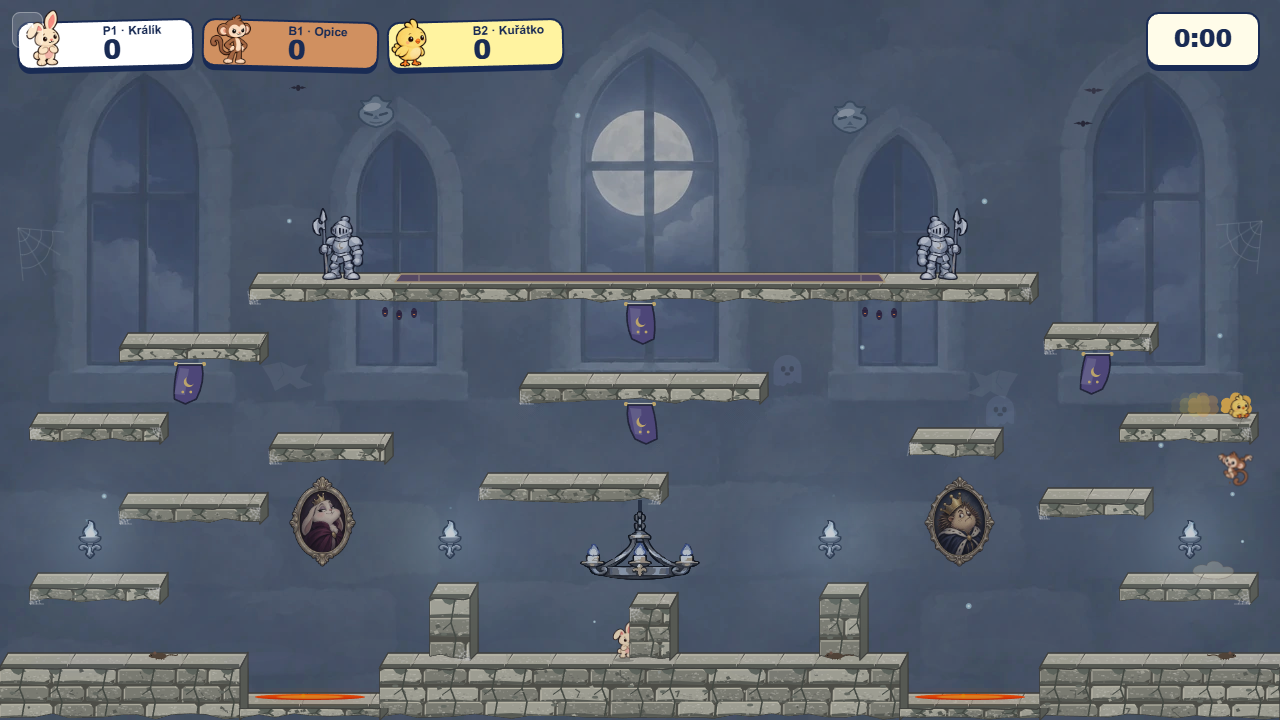
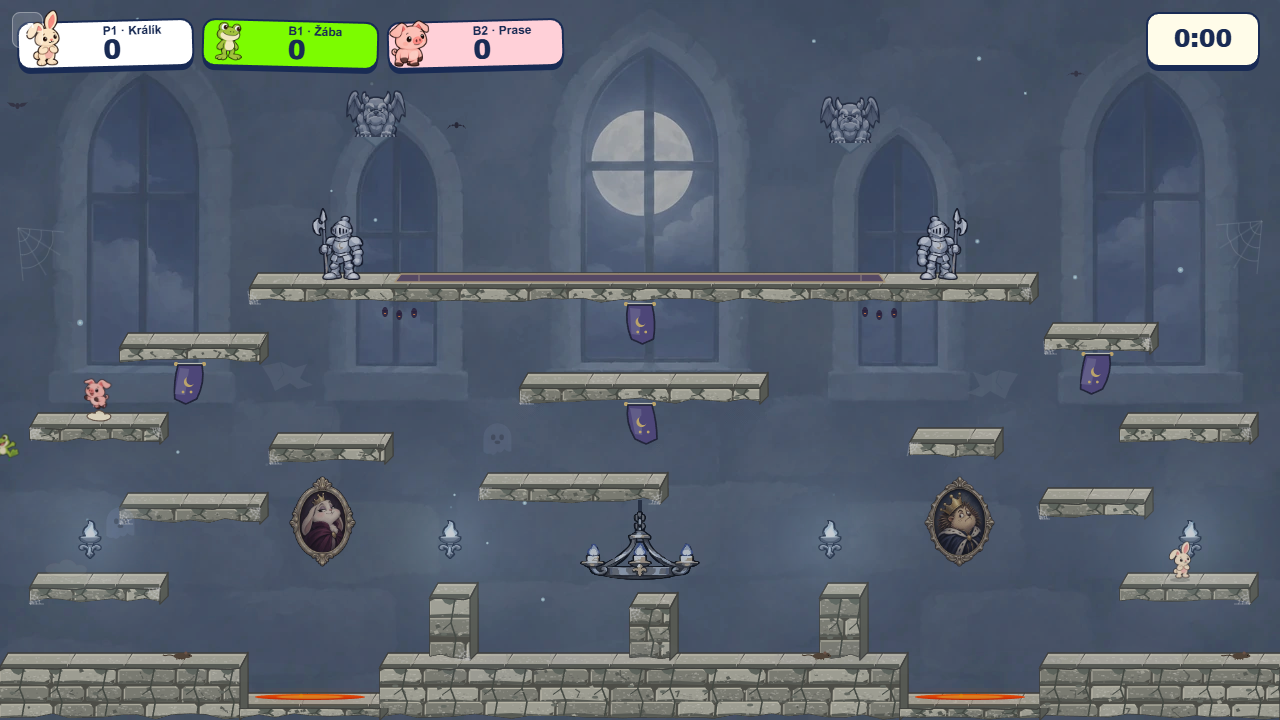
Make Castle keystones read as gargoyles

diff --git a/src/engine/arenas/packs/castleRoyalGallery.ts b/src/engine/arenas/packs/castleRoyalGallery.ts
@@ -1,53 +1,27 @@
 import type { Ctx2D, Platform } from '../../types';
 
-function drawKeystoneFace(c: Ctx2D, x: number, y: number, sleepy: boolean): void {
+function drawGargoyleKeystone(c: Ctx2D, x: number, y: number, gargoyle: ImageBitmap, mirror: boolean): void {
   c.save();
   c.translate(x, y);
-  c.globalAlpha = .68;
+  if (mirror) c.scale(-1, 1);
   c.lineJoin = 'round';
-  c.lineCap = 'round';
-  c.fillStyle = '#77899a';
-  c.strokeStyle = '#34475a';
+  // The pointed stone wedge joins the arch. The spring's existing winged
+  // gargoyle art is cropped above its plinth and reads as a carved figure.
+  c.globalAlpha = .58;
+  c.fillStyle = '#74889a';
+  c.strokeStyle = '#465c70';
   c.lineWidth = 2;
   c.beginPath();
-  c.moveTo(-17, 3);
-  c.quadraticCurveTo(-19, -6, -11, -7);
-  c.lineTo(-15, -13);
-  c.quadraticCurveTo(-6, -11, -4, -17);
-  c.quadraticCurveTo(0, -20, 4, -17);
-  c.quadraticCurveTo(6, -11, 15, -13);
-  c.lineTo(11, -7);
-  c.quadraticCurveTo(19, -6, 17, 3);
-  c.quadraticCurveTo(12, 11, 0, 13);
-  c.quadraticCurveTo(-12, 11, -17, 3);
+  c.moveTo(-23, 10);
+  c.quadraticCurveTo(0, 4, 23, 10);
+  c.lineTo(13, 23);
+  c.lineTo(0, 33);
+  c.lineTo(-13, 23);
   c.closePath();
   c.fill();
   c.stroke();
-  c.fillStyle = '#a7b1ba';
-  c.beginPath();
-  c.ellipse(-4, -7, 9, 4, -.2, 0, Math.PI * 2);
-  c.fill();
-  c.strokeStyle = '#293b4c';
-  c.lineWidth = 2.4;
-  c.beginPath();
-  c.moveTo(-11, -1);
-  c.lineTo(-4, sleepy ? 1 : -3);
-  c.moveTo(4, sleepy ? 1 : -3);
-  c.lineTo(11, -1);
-  c.stroke();
-  c.fillStyle = '#42566a';
-  c.beginPath();
-  c.moveTo(0, 1);
-  c.lineTo(-3, 5);
-  c.lineTo(3, 5);
-  c.closePath();
-  c.fill();
-  c.strokeStyle = '#435365';
-  c.lineWidth = 1.4;
-  c.beginPath();
-  c.moveTo(-6, 8);
-  c.quadraticCurveTo(0, sleepy ? 10 : 6, 6, 8);
-  c.stroke();
+  c.globalAlpha = .72;
+  c.drawImage(gargoyle, 0, 0, gargoyle.width, gargoyle.height * .86, -30, -24, 60, 47);
   c.restore();
 }
 
@@ -107,10 +81,12 @@ function drawWornPlaster(c: Ctx2D, x: number, y: number, mirror: boolean): void 
   c.restore();
 }
 
-export function drawCastleWallDetails(c: Ctx2D): void {
-  // Flat wall art only: no landing cap, grounded base, or interactive silhouette.
-  drawKeystoneFace(c, 376, 114, true);
-  drawKeystoneFace(c, 850, 120, false);
+export function drawCastleWallDetails(c: Ctx2D, gargoyle: ImageBitmap | null): void {
+  // Inset wall details only: the small gargoyles perch on existing arch points.
+  if (gargoyle) {
+    drawGargoyleKeystone(c, 376, 114, gargoyle, false);
+    drawGargoyleKeystone(c, 850, 120, gargoyle, true);
+  }
   drawCobweb(c, 18, 228, 1);
   drawCobweb(c, 1262, 221, -1);
   drawWornPlaster(c, 262, 366, false);

diff --git a/src/engine/arenas/packs/castleCartoonProps.ts b/src/engine/arenas/packs/castleCartoonProps.ts
@@ -1,5 +1,5 @@
 import type { Arena, Ctx2D } from '../../types';
-import { getCastlePropArt } from '../illustratedBackdropAsset';
+import { getCastleGuardianArt, getCastlePropArt } from '../illustratedBackdropAsset';
 import { drawCastleGalleryDecoration, drawCastleWallDetails } from './castleRoyalGallery';
 
 type CastleArt = { guard: ImageBitmap; sconce: ImageBitmap; chandelier: ImageBitmap; duchess: ImageBitmap | null; king: ImageBitmap | null };
@@ -26,7 +26,7 @@ export function drawCastleCartoonBackground(c: Ctx2D, arena: Arena): boolean {
   const groundY = arena.platforms[0].y;
   const upperGallery = arena.platforms.find(platform => platform.y < 300 && platform.width > 700);
   c.save();
-  drawCastleWallDetails(c);
+  drawCastleWallDetails(c, getCastleGuardianArt().rest);
   if (upperGallery) drawCastleGalleryDecoration(c, upperGallery);
   c.globalAlpha = .83;
   if (art.duchess) c.drawImage(art.duchess, 289, groundY - 184, 67, 91);

diff --git a/.claude/skills/visual-style/SKILL.md b/.claude/skills/visual-style/SKILL.md
@@ -247,7 +247,7 @@ The [Winter Lake case study](../../../docs/mockups/winter-lake/LESSONS.md) trace
 
    Castle's [Balanced Silver atmosphere study](../../../docs/mockups/castle-cartoon-props/atmosphere/README.md) adds another rule: a brighter painting alone can make unchanged foreground stone and props appear pasted on. Compare the background, platform faces, and fixed foreground artwork in the same full scene. The first Silver Moon lift was too pale; the selected quieter version uses about 55% of that lift, with a matching but restrained silver treatment across the scene. Bake the painted plate and fixed transparent props offline, express scalable Canvas stone in its palette, and coordinate moving particle colors separately. Do not apply a per-frame screen filter or tint characters, whose colors provide gameplay contrast. Check the real renderer at match size in both worker modes after the palette is translated from mockup filters, because the first Canvas translation was too cool and needed a warmer limestone correction.
 
-   Castle's [royal gallery pass](../../../docs/mockups/castle-cartoon-props/royal-gallery/README.md) shows that a decorative column can still imply collision when it has a broad cap and grounded base. Treat the whole silhouette as a gameplay cue, even if it renders behind players. Replace such false affordances with inset wall art rather than merely moving the column away from platforms. Fill a sparse room at several scales: a few readable landmarks (portraits), one surface treatment tied to actual collision (a flush gallery runner), shallow relief on a platform's front face, and sparse small wall wear. Keep windows and movement lanes open. For painted portraits, isolate and alpha-crop the source, grade it to the room's palette, display it at match size, and preload its small runtime version with the arena. Keep static wall details in the background cache, and verify the illustrated and fallback paths remove the same misleading shapes.
+   Castle's [royal gallery pass](../../../docs/mockups/castle-cartoon-props/royal-gallery/README.md) shows that a decorative column can still imply collision when it has a broad cap and grounded base. Treat the whole silhouette as a gameplay cue, even if it renders behind players. Replace such false affordances with inset wall art rather than merely moving the column away from platforms. Fill a sparse room at several scales: a few readable landmarks (portraits), one surface treatment tied to actual collision (a flush gallery runner), shallow relief on a platform's front face, and sparse small wall wear. Keep windows and movement lanes open. For painted portraits, isolate and alpha-crop the source, grade it to the room's palette, display it at match size, and preload its small runtime version with the arena. Keep static wall details in the background cache, and verify the illustrated and fallback paths remove the same misleading shapes. A tiny isolated gargoyle face read as a floating emoji even after a more angular redraw. At match size, use the creature's wings, horns, paws and body, attach it visibly to the arch, and reuse an existing readable asset when possible.
 
    Before pushing a new mockup utility, run lint on tracked files. Playwright art scripts use `page.evaluate` callbacks that execute in a browser even though the outer script runs in Node; declare browser globals for the specific script directory in ESLint. An untracked local capture fixture may fail a whole-tree lint locally, so exclude that fixture for the CI-equivalent check without adding it to the PR.
 

diff --git a/docs/mockups/castle-cartoon-props/royal-gallery/README.md b/docs/mockups/castle-cartoon-props/royal-gallery/README.md
@@ -1,6 +1,6 @@
 # Castle royal gallery: replacing the false platforms
 
-The freestanding columns in the previous layout looked like playable ledges even though they had no collision. This pass removes them in both the illustrated and fallback paths. It fills the room with details that read as part of the existing wall: two recessed royal portraits, small gargoyle keystone faces, sparse cobwebs and worn plaster. The long upper platform gets a runner flush with its top and shallow relief on its front face. Existing windows, platform geometry, collision, guards, sconces, chandelier, banners, and spring positions are unchanged.
+The freestanding columns in the previous layout looked like playable ledges even though they had no collision. This pass removes them in both the illustrated and fallback paths. It fills the room with details that read as part of the existing wall: two recessed royal portraits, small gargoyle carvings perched on the arch points, sparse cobwebs and worn plaster. The long upper platform gets a runner flush with its top and shallow relief on its front face. Existing windows, platform geometry, collision, guards, sconces, chandelier, banners, and spring positions are unchanged.
 
 | Previous clear-bays layout | Royal gallery, default worker | Royal gallery, `simWorker=off` |
 | --- | --- | --- |
@@ -9,5 +9,7 @@ The freestanding columns in the previous layout looked like playable ledges even
 The rabbit duchess and hedgehog king were generated as painted storybook references, alpha-cropped and graded into transparent 276-pixel-high WebP assets with [preparePortraits.mjs](preparePortraits.mjs). Their [source PNGs](duchess-source.png) and [king source](king-source.png) remain here for art review. The game displays them at 91 pixels high and preloads them with Castle's other fixed art. The runtime pair totals 44,262 bytes; the removed column no longer preloads. The small wall, web, runner and frieze shapes are Canvas paths drawn in the arena's cached background pass, not every frame.
 
 The art generation prompt specified a transparent isolated oval carved frame, a mildly smug lop-eared rabbit duchess in plum, and a slightly clueless hedgehog king in midnight blue. It asked for thick dark storybook contours, broad paint and stone shading, muted silver-gold, no text, and no scene background. The source was then cropped by nontransparent pixels and graded at 72% saturation, 90% brightness, 104% contrast to sit behind the characters.
+
+The first keystone attempt drew only a 34-pixel face. At game size it read as a floating emoji rather than a gargoyle. A second hand-drawn mask still lacked the creature's body. The final pass reuses the existing Guardian spring illustration, crops off its plinth, and places its wings, paws, horns and body against a stone wedge joined to the arch. This adds no download and gives the detail a recognizable creature silhouette at native game size.
 
 Production preview checks loaded the six fetched Castle/Guardian assets plus the inline sconce, rendered direct Castle entry and Meadow-to-Castle switching without page errors in both simulation modes. The build, focused backdrop asset tests, and changed-file lint pass. The live captures are after the countdown at 1280 × 720; they establish layout and loading, not every moving-player overlap.
